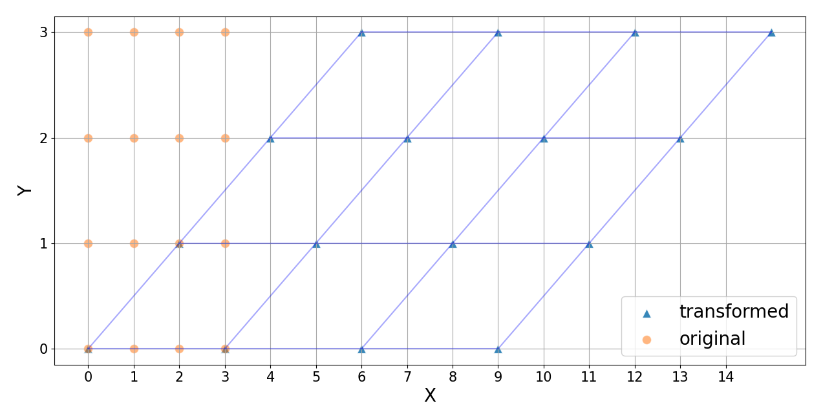
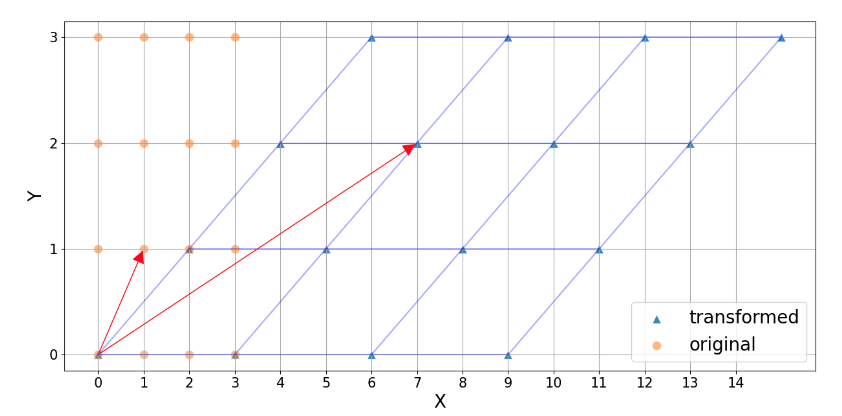
polish

diff --git a/_posts/2023-05-28-test.md b/_posts/2023-05-28-test.md
@@ -5,14 +5,13 @@ categories:
 - math
 ---
 
-**Disclaimer**: People have some basic understanding of linear alegbra.
-
+**Disclaimer**: This post assumes a basic familiarity with linear algebra topics.
 
 This is the first of the 2 blog posts on topics of eigenvectors and how they relate to the technique of PCA. In this post, we'll revisit some basics of eigenvectors and their interpretation.
 
 ## Matrices as Linear Transformation Functions
 
-To be able to interpret eigenvectors geometrically, we start with the interpretation of $n \times n$ matrices. Let's take the following example:
+To be able to interpret eigenvectors geometrically, we start with the interpretation of a $n \times n$ matrix. Let's take the following example:
 
 $$
 A ~=~ \begin{bmatrix}
@@ -40,9 +39,11 @@ x_2
 \end{bmatrix}
 $$
 
+Note, how the transformation affects the vector $mathbf{x} = (1, 1)$, shown by red arrows.
+
 ## Geometric Interpretation of Eigenvectors and Eigenvalues 
 
-It's certainly not obvious, but there are some special points (specifically vectors) that are not affected by this transformation. For example, $(1, 0)$. This vector has the same direction before and after the transformation, although it gets scaled by a factor of 3. This scaling factor is the eigenvalue associated with that vector.
+It's certainly not obvious, but there are some special vectors that are not affected by this transformation. For example, $(1, 0)$. This vector has the same direction before and after the transformation, although it gets scaled by a factor of 3. This scaling factor is the eigenvalue associated with that vector.
 
 $$
 \begin{bmatrix}
@@ -59,7 +60,7 @@ $$
 \end{bmatrix}
 $$
 
-If we were to do some math, we can find the other (rather snekay) eigenvector corresponding to the $y = -x$ line:
+If we were to do some math, we can find the other (rather sneaky) eigenvector corresponding to the $y = -x$ line:
 
 $$ x_2 = \begin{bmatrix}
 -1/\sqrt{2} \\
@@ -69,7 +70,7 @@ $$
 
 When I first learned about eigenvectors I had a hard time understanding the significance and the need to introduce such abstract concepts. I won't claim I understand it completely now, but I do have a new appreciation for how *cool* these ideas actually are. This post is a way to share some of that understanding.
 
-**So what are eigenvectors really?** They are vectors characteristic to a given matrix (transformation) and together they define the transformation space just like X and Y axes in a 2D coordinate system do.
+**So what are eigenvectors really?** They are vectors characteristic to a given matrix (transformation) and together they *define* the transformation space just like X and Y axes in a 2D coordinate system do.
 
 ## What to do with Eigenvectors?
 
@@ -83,7 +84,7 @@ $$
   \end{bmatrix}
 $$
 
-Almost magical, isn't it? Although the algebraic proof is straightforward, I find the geometric interpretation a lot better. $C^{-1}AC$ is a composition of 3 transformations applied successively from right to left. The first transformation $C$ maps us to the *eigenspace*. The second, $A$, performs the core transformation; note that the direction of the eigenvectors remain unchanged after this. And finally, we revert the first transformation to bring us back to the "standard" space. This composition, therefore, captures how the transformation looks like in the eigenspace. And indeed, in the eigenspace, the core transformation has only a scaling effect on the coordinate axes and therefore the result is a diagonal matrix.
+Almost magical, isn't it? Although the algebraic proof is straightforward, I find the geometric interpretation a lot better. $C^{-1}AC$ is a composition of 3 transformations applied successively from right to left. The first transformation $C$ maps us to the *eigenspace*. The second, $A$, performs the core transformation; note that the direction of the eigenvectors remain unchanged after this. And finally, we revert the first transformation, $C^{-1}$, to bring us back to the "standard" space. This composition, therefore, captures how the transformation looks like in the eigenspace. And indeed, in the eigenspace, the core transformation has only a scaling effect on the coordinate axes and therefore the result is a diagonal matrix.
 
 One practical application of this is in computing $A^k$. For our example above, instead of actually performing $k$ successive matrix multiplications, we can do the following:
 
@@ -99,11 +100,12 @@ A lot cleaner, right?
 
 ### Eigenvectors for Data Science
 
-Eigenvectors have a much simpler interpretation when looking at distributions of data points. For example, consider the scatterplot below of two variable X and Y.
+Eigenvectors have a much simpler interpretation when looking at distributions of data points. For example, consider the scatterplot below of two variables X and Y.
 
 <img class="wp-image-165 aligncenter" src="/assets/images/eigen_refresher/scatterplot.png" alt="poly" width="586" height="463" />
 
-It is clear that there is a positive covariance between the X and Y variables. When computed exactly, can be represented by the following covariance matrix
+It is clear that there is a positive covariance between the X and Y variables. When computed exactly, can be represented by the following <a href="https://en.wikipedia.org/wiki/Covariance_matrix" target="_blank" rel="noopener">covariance matrix</a>
+
 
 $$
 cov(X, Y) = \begin{bmatrix}
@@ -114,7 +116,7 @@ $$
 
 It is easy to imagine computations on this generic (symmetric) matrix quickly becoming cumbersome. It would be so much better if we could work with diagonal matrices instead. This is exactly what we'll do using the eigenvectors of this matrix.
 
-On a side note: Matrices like the covariance matrix come with some especially nice properties on their eigenvectors and eigenvalues. For example, the eigenvalues are always positive and correspond to the variance in the direction of the eigenvector. Furthermore, they are guaranteed to be orthogonal to one another.
+On a side note: Matrices like the covariance matrix come with some especially nice properties on their eigenvectors and eigenvalues. For example, the eigenvalues are always positive and correspond to the variance in the direction of the eigenvector. Furthermore, they are guaranteed to be orthogonal to one another. This is not obvious but goes beyond the scope of this post. Nevetheless, this property allows us to simplify the representation of the data by *decorrelating* the X and Y axes. See the figure below. We'll come back to this property and how this decorrelation can be helpful in the next post, when we discuss PCA.
 
 <img class="wp-image-165 aligncenter" src="/assets/images/eigen_refresher/eigen_transformation.png" />
 
@@ -125,3 +127,8 @@ cov^{eigen}(X, Y) = \begin{bmatrix}
 0 & 0.41
 \end{bmatrix}
 $$
+
+## References
+
+- [Lecture Notes: Intelligent Data Analysis and Probabilistic Inference](https://people.duke.edu/~hpgavin/SystemID/References/Gillies-PCA-notes.pdf)
+- [Interactive Linear Algebra Textbook - Dan Margalit, Joseph Rabinoff](https://textbooks.math.gatech.edu/ila/eigenvectors.html)
